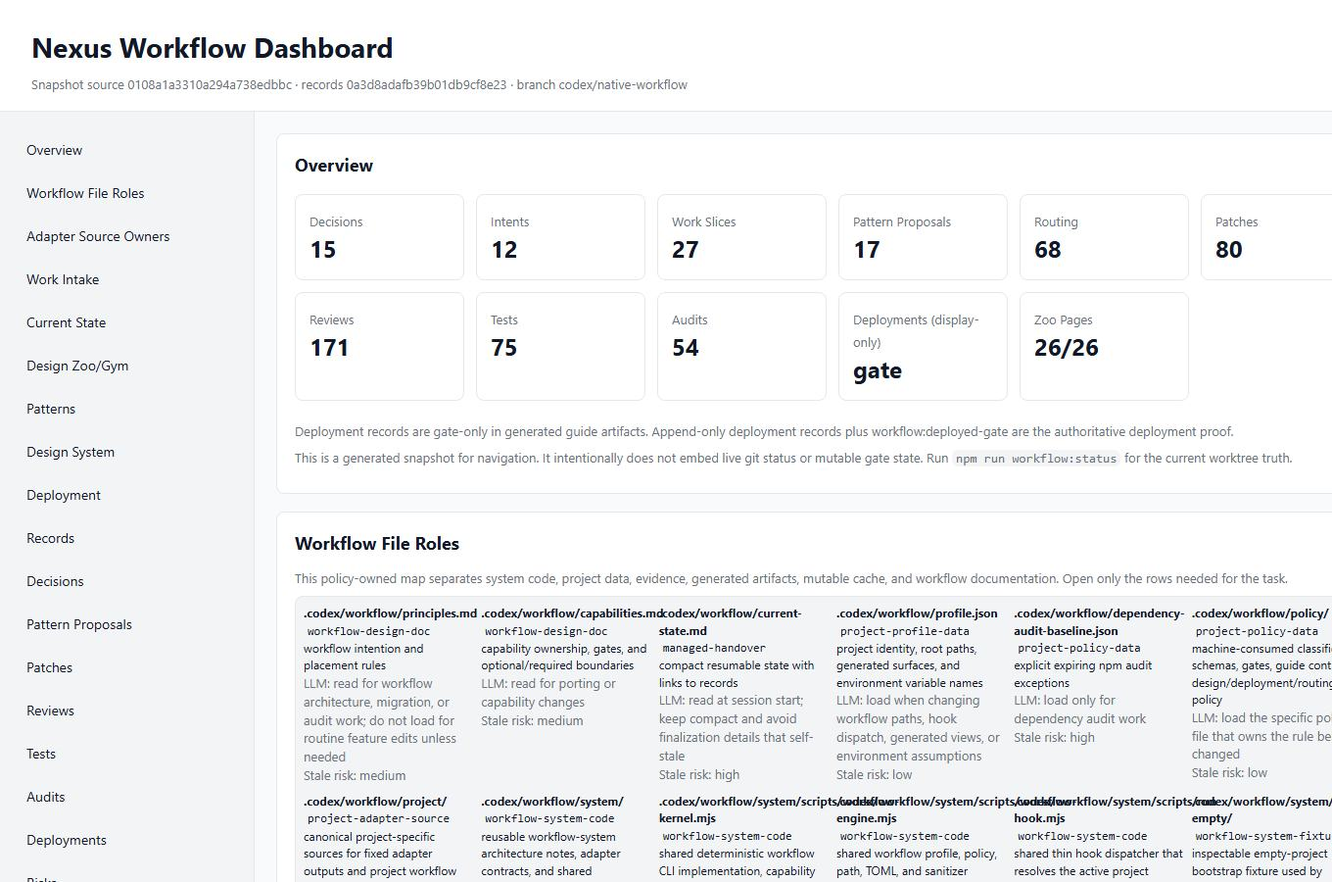
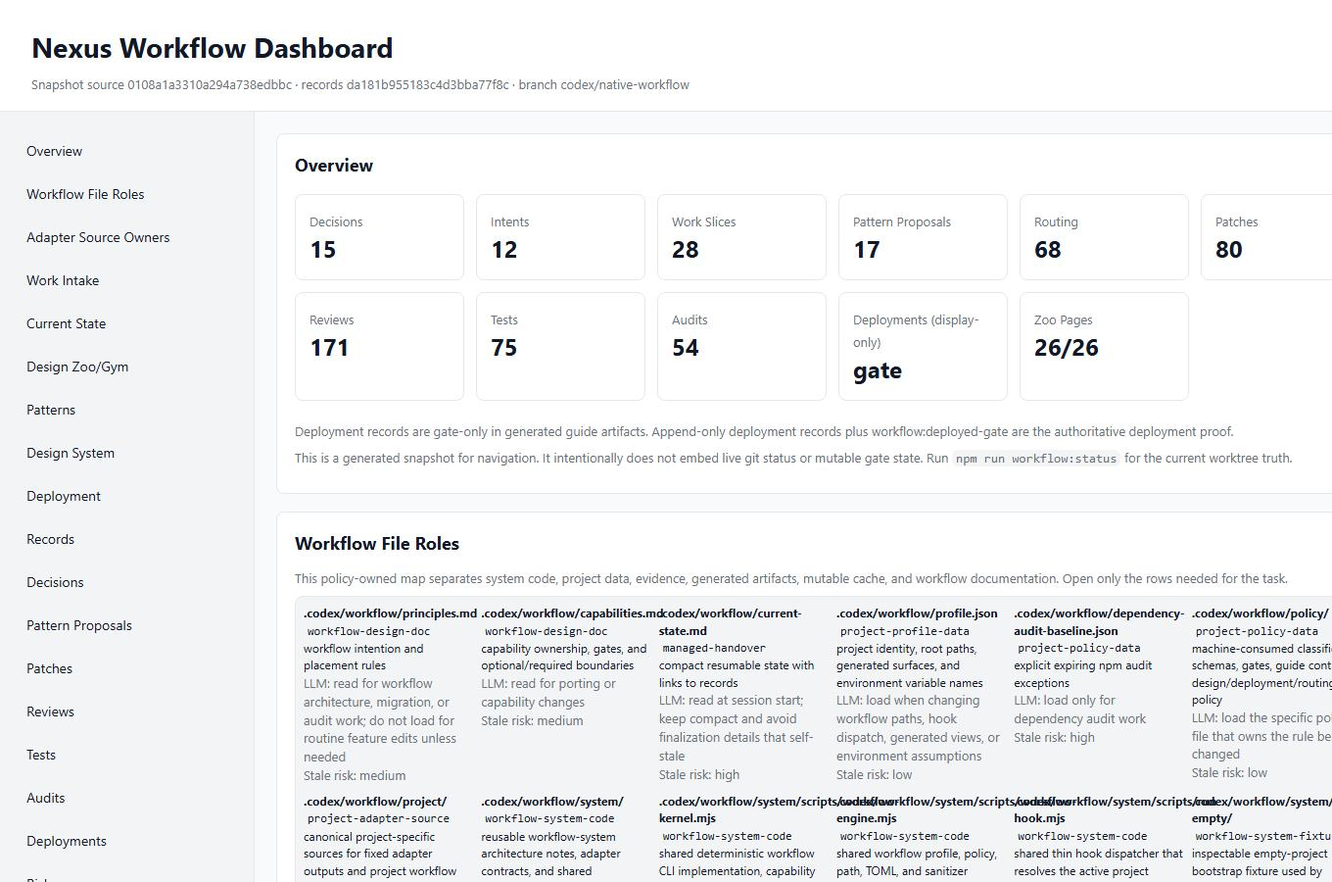
Record workflow deployment evidence

diff --git a/.codex/dashboard/public.html b/.codex/dashboard/public.html
@@ -5,8 +5,8 @@
   <meta name="viewport" content="width=device-width, initial-scale=1" />
   <meta name="nexus-guide-version" content="nexus-public-workflow-guide/v2" />
   <meta name="nexus-guide-source-hash" content="0108a1a3310a294a738edbbc" />
-  <meta name="nexus-guide-record-feed-hash" content="0a3d8adafb39b01db9cf8e23" />
-  <meta name="nexus-guide-content-hash" content="8bd4902363f31f8402e9ce25" />
+  <meta name="nexus-guide-record-feed-hash" content="da181b955183c4d3bba77f8c" />
+  <meta name="nexus-guide-content-hash" content="3ceab771b69f94915158b7f4" />
   <meta name="nexus-token-source" content="packages/web/src/platform/theme/tokens.css" />
   <title>Nexus Workflow Guide</title>
   <style>
@@ -72,7 +72,7 @@
 <body>
   <header>
     <h1>Nexus Workflow Guide</h1>
-    <div class="meta">Snapshot source 0108a1a3310a294a738edbbc · records 0a3d8adafb39b01db9cf8e23 · branch codex/native-workflow · run workflow gates for live state before deploy</div>
+    <div class="meta">Snapshot source 0108a1a3310a294a738edbbc · records da181b955183c4d3bba77f8c · branch codex/native-workflow · run workflow gates for live state before deploy</div>
   </header>
   <main>
     <section>
@@ -303,7 +303,7 @@
     <div class="graph">
       <h3>Intent Trace Graph</h3>
       <div class="nodes">
-        <div class="node" data-graph-node="Slice WORK-SLICE-20260511T101600Z-work-slice-active-research-design-implement-and-"><strong>Slice WORK-SLICE-20260511T101600Z-work-slice-active-research-design-implement-and-</strong><span>verified · Research, design, implement, and test a stronger system/project extraction for the Codex workflow</span></div>
+        <div class="node" data-graph-node="Slice WORK-SLICE-20260511T101600Z-work-slice-active-research-design-implement-and-"><strong>Slice WORK-SLICE-20260511T101600Z-work-slice-active-research-design-implement-and-</strong><span>done · Research, design, implement, and test a stronger system/project extraction for the Codex workflow</span></div>
 <div class="node" data-graph-node="Intent INTENT-20260511T101550Z-intent-maintenance-fully-extract-workflow-system"><strong>Intent INTENT-20260511T101550Z-intent-maintenance-fully-extract-workflow-system</strong><span>captured · Fully extract workflow system/project separation before second-project onboarding</span></div>
 <div class="node" data-graph-node="Patch PATCH-20260511T112822Z-refactor-workflow-into-reusable-system-layer-plu"><strong>Patch PATCH-20260511T112822Z-refactor-workflow-into-reusable-system-layer-plu</strong><span>PATCH-20260511T112822Z-refactor-workflow-into-reusable-system-layer-plu</span></div>
 <div class="node" data-graph-node="Patch PATCH-20260511T124509Z-extract-reusable-workflow-system-layer-and-polic"><strong>Patch PATCH-20260511T124509Z-extract-reusable-workflow-system-layer-and-polic</strong><span>PATCH-20260511T124509Z-extract-reusable-workflow-system-layer-and-polic</span></div>
@@ -442,7 +442,7 @@
     </div>
 
       <ul class="timeline"><li data-work-intake-trace-row="WORK-SLICE-20260511T101600Z-work-slice-active-research-design-implement-and-">
-    <strong>WORK-SLICE-20260511T101600Z-work-slice-active-research-design-implement-and-</strong> <span class="meta">verified · codex-lead</span><br>
+    <strong>WORK-SLICE-20260511T101600Z-work-slice-active-research-design-implement-and-</strong> <span class="meta">done · codex-lead</span><br>
     Research, design, implement, and test a stronger system/project extraction for the Codex workflow
     <div class="trace-grid">
       <span><strong>Intents</strong><br><span data-work-intake-trace-intent="INTENT-20260511T101550Z-intent-maintenance-fully-extract-workflow-system">INTENT-20260511T101550Z-intent-maintenance-fully-extract-workflow-system: Fully extract workflow system/project separation before second-project onboarding</span></span>
@@ -788,7 +788,7 @@ node .codex/scripts/nexus-workflow.mjs record-audit --scope branch --verdict pas
       <div class="grid">
         <div class="card"><strong>15</strong><p>decisions</p></div>
 <div class="card"><strong>12</strong><p>intents</p></div>
-<div class="card"><strong>27</strong><p>work-slices</p></div>
+<div class="card"><strong>28</strong><p>work-slices</p></div>
 <div class="card"><strong>17</strong><p>pattern-proposals</p></div>
 <div class="card"><strong>68</strong><p>routing</p></div>
 <div class="card"><strong>80</strong><p>patches</p></div>
@@ -802,6 +802,31 @@ node .codex/scripts/nexus-workflow.mjs record-audit --scope branch --verdict pas
     <section>
       <h2>Workflow Event Timeline</h2>
       <p class="meta">All indexed workflow records are listed here by title. The repo-local dashboard contains detailed excerpts and internal paths.</p>
+
+        <h3>Work Intake</h3>
+        <ul class="timeline">
+          <li><strong>work-slices:</strong> Work slice done Research, design, implement, and test a stronger system/project extraction for the Codex workflow <span class="meta">2026-05-11T12:55:19.747Z</span></li>
+<li><strong>work-slices:</strong> Work slice verified Research, design, implement, and test a stronger system/project extraction for the Codex workflow <span class="meta">2026-05-11T12:48:42.005Z</span></li>
+<li><strong>work-slices:</strong> Work slice done Research, design, implement, and test a stronger system/project extraction for the Codex workflow <span class="meta">2026-05-11T12:43:59.861Z</span></li>
+<li><strong>work-slices:</strong> Work slice active Research, design, implement, and test a stronger system/project extraction for the Codex workflow <span class="meta">2026-05-11T10:16:00.508Z</span></li>
+<li><strong>intents:</strong> Intent maintenance Fully extract workflow system/project separation before second-project onboarding <span class="meta">2026-05-11T10:15:50.657Z</span></li>
+<li><strong>work-slices:</strong> Work slice done Implement behavior-preserving workflow structure refactor with centralized adapter management for mechanical fixed files and validated portability boundaries <span class="meta">2026-05-11T09:23:22.453Z</span></li>
+<li><strong>work-slices:</strong> Work slice active Implement behavior-preserving workflow structure refactor with centralized adapter management for mechanical fixed files and validated portability boundaries <span class="meta">2026-05-11T08:00:31.917Z</span></li>
+<li><strong>intents:</strong> Intent maintenance Refactor workflow structure with explicit adapter contract, install/check/uninstall, updated docs, and thorough tests for portability <span class="meta">2026-05-11T08:00:22.487Z</span></li>
+<li><strong>work-slices:</strong> Work slice done Finish Nexus design-system parity for current project scope <span class="meta">2026-05-11T01:24:55.220Z</span></li>
+<li><strong>work-slices:</strong> Work slice active Finish Nexus design-system parity for current project scope <span class="meta">2026-05-11T01:00:42.211Z</span></li>
+<li><strong>work-slices:</strong> Work slice active Finish Nexus design-system parity for current project scope <span class="meta">2026-05-10T23:08:53.745Z</span></li>
+<li><strong>work-slices:</strong> Work slice done Implement and validate portable Work Intake workflow subsystem <span class="meta">2026-05-10T15:47:13.205Z</span></li>
+<li><strong>work-slices:</strong> Work slice done Reproduce and remove the non-failing ThemeProvider React act warning <span class="meta">2026-05-10T15:47:13.199Z</span></li>
+<li><strong>work-slices:</strong> Work slice deferred Review and repair design-system integration/documentation after Codex workflow closeout <span class="meta">2026-05-10T14:55:22.178Z</span></li>
+<li><strong>intents:</strong> Intent feature After workflow closeout, review and repair the partially migrated design-system integration that came from the old Claude workflow, rebuild stale/wrong documentation through the new workflow, and fix implementation gaps with proper records and validation <span class="meta">2026-05-10T14:55:11.700Z</span></li>
+<li><strong>work-slices:</strong> Work slice active Reproduce and remove the non-failing ThemeProvider React act warning <span class="meta">2026-05-10T14:49:18.458Z</span></li>
+<li><strong>intents:</strong> Intent maintenance Clean remaining ThemeProvider React act warning using the Codex workflow <span class="meta">2026-05-10T14:49:10.957Z</span></li>
+<li><strong>work-slices:</strong> Work slice active Implement and validate portable Work Intake workflow subsystem <span class="meta">2026-05-10T13:49:14.702Z</span></li>
+<li><strong>intents:</strong> Intent feature Expand Codex workflow with portable solo-dev Work Intake and presentation system <span class="meta">2026-05-10T13:49:02.030Z</span></li>
+<li><strong>decisions:</strong> Research solo-dev user-intent traceability workflow <span class="meta">2026-05-10T13:14:35.699Z</span></li>
+        </ul>
+
 
         <h3>Validation</h3>
         <ul class="timeline">
@@ -1223,30 +1248,6 @@ node .codex/scripts/nexus-workflow.mjs record-audit --scope branch --verdict pas
 <li><strong>patches:</strong> Codex-native workflow migration, Claude workflow archive, and design-system Toast continuation <span class="meta">2026-05-08T17:41:21.965Z</span></li>
 <li><strong>patches:</strong> Design-system toast semantic parity <span class="meta">2026-05-08T17:07:13.546Z</span></li>
 <li><strong>decisions:</strong> Workflow mechanism split <span class="meta">2026-05-08T16:38:32.282Z</span></li>
-        </ul>
-
-
-        <h3>Work Intake</h3>
-        <ul class="timeline">
-          <li><strong>work-slices:</strong> Work slice verified Research, design, implement, and test a stronger system/project extraction for the Codex workflow <span class="meta">2026-05-11T12:48:42.005Z</span></li>
-<li><strong>work-slices:</strong> Work slice done Research, design, implement, and test a stronger system/project extraction for the Codex workflow <span class="meta">2026-05-11T12:43:59.861Z</span></li>
-<li><strong>work-slices:</strong> Work slice active Research, design, implement, and test a stronger system/project extraction for the Codex workflow <span class="meta">2026-05-11T10:16:00.508Z</span></li>
-<li><strong>intents:</strong> Intent maintenance Fully extract workflow system/project separation before second-project onboarding <span class="meta">2026-05-11T10:15:50.657Z</span></li>
-<li><strong>work-slices:</strong> Work slice done Implement behavior-preserving workflow structure refactor with centralized adapter management for mechanical fixed files and validated portability boundaries <span class="meta">2026-05-11T09:23:22.453Z</span></li>
-<li><strong>work-slices:</strong> Work slice active Implement behavior-preserving workflow structure refactor with centralized adapter management for mechanical fixed files and validated portability boundaries <span class="meta">2026-05-11T08:00:31.917Z</span></li>
-<li><strong>intents:</strong> Intent maintenance Refactor workflow structure with explicit adapter contract, install/check/uninstall, updated docs, and thorough tests for portability <span class="meta">2026-05-11T08:00:22.487Z</span></li>
-<li><strong>work-slices:</strong> Work slice done Finish Nexus design-system parity for current project scope <span class="meta">2026-05-11T01:24:55.220Z</span></li>
-<li><strong>work-slices:</strong> Work slice active Finish Nexus design-system parity for current project scope <span class="meta">2026-05-11T01:00:42.211Z</span></li>
-<li><strong>work-slices:</strong> Work slice active Finish Nexus design-system parity for current project scope <span class="meta">2026-05-10T23:08:53.745Z</span></li>
-<li><strong>work-slices:</strong> Work slice done Implement and validate portable Work Intake workflow subsystem <span class="meta">2026-05-10T15:47:13.205Z</span></li>
-<li><strong>work-slices:</strong> Work slice done Reproduce and remove the non-failing ThemeProvider React act warning <span class="meta">2026-05-10T15:47:13.199Z</span></li>
-<li><strong>work-slices:</strong> Work slice deferred Review and repair design-system integration/documentation after Codex workflow closeout <span class="meta">2026-05-10T14:55:22.178Z</span></li>
-<li><strong>intents:</strong> Intent feature After workflow closeout, review and repair the partially migrated design-system integration that came from the old Claude workflow, rebuild stale/wrong documentation through the new workflow, and fix implementation gaps with proper records and validation <span class="meta">2026-05-10T14:55:11.700Z</span></li>
-<li><strong>work-slices:</strong> Work slice active Reproduce and remove the non-failing ThemeProvider React act warning <span class="meta">2026-05-10T14:49:18.458Z</span></li>
-<li><strong>intents:</strong> Intent maintenance Clean remaining ThemeProvider React act warning using the Codex workflow <span class="meta">2026-05-10T14:49:10.957Z</span></li>
-<li><strong>work-slices:</strong> Work slice active Implement and validate portable Work Intake workflow subsystem <span class="meta">2026-05-10T13:49:14.702Z</span></li>
-<li><strong>intents:</strong> Intent feature Expand Codex workflow with portable solo-dev Work Intake and presentation system <span class="meta">2026-05-10T13:49:02.030Z</span></li>
-<li><strong>decisions:</strong> Research solo-dev user-intent traceability workflow <span class="meta">2026-05-10T13:14:35.699Z</span></li>
         </ul>
 
 

diff --git a/.codex/dashboard/index.html b/.codex/dashboard/index.html
@@ -5,8 +5,8 @@
   <meta name="viewport" content="width=device-width, initial-scale=1" />
   <meta name="nexus-guide-version" content="nexus-public-workflow-guide/v2" />
   <meta name="nexus-guide-source-hash" content="0108a1a3310a294a738edbbc" />
-  <meta name="nexus-guide-record-feed-hash" content="0a3d8adafb39b01db9cf8e23" />
-  <meta name="nexus-guide-content-hash" content="9e73459e0af27f9ff07dfeda" />
+  <meta name="nexus-guide-record-feed-hash" content="da181b955183c4d3bba77f8c" />
+  <meta name="nexus-guide-content-hash" content="85e4653d84d9dc31199c4faa" />
   <meta name="nexus-token-source" content="packages/web/src/platform/theme/tokens.css" />
   <title>Nexus Workflow Dashboard</title>
   <style>
@@ -83,7 +83,7 @@
 <body>
   <header>
     <h1>Nexus Workflow Dashboard</h1>
-    <div class="meta">Snapshot source 0108a1a3310a294a738edbbc · records 0a3d8adafb39b01db9cf8e23 · branch codex/native-workflow</div>
+    <div class="meta">Snapshot source 0108a1a3310a294a738edbbc · records da181b955183c4d3bba77f8c · branch codex/native-workflow</div>
   </header>
   <div class="layout">
     <nav>
@@ -113,7 +113,7 @@
         <div class="grid">
           <div class="card"><span class="meta">Decisions</span><strong>15</strong></div>
 <div class="card"><span class="meta">Intents</span><strong>12</strong></div>
-<div class="card"><span class="meta">Work Slices</span><strong>27</strong></div>
+<div class="card"><span class="meta">Work Slices</span><strong>28</strong></div>
 <div class="card"><span class="meta">Pattern Proposals</span><strong>17</strong></div>
 <div class="card"><span class="meta">Routing</span><strong>68</strong></div>
 <div class="card"><span class="meta">Patches</span><strong>80</strong></div>
@@ -313,7 +313,7 @@
     <div class="graph">
       <h3>Intent Trace Graph</h3>
       <div class="nodes">
-        <div class="node" data-graph-node="Slice WORK-SLICE-20260511T101600Z-work-slice-active-research-design-implement-and-"><strong>Slice WORK-SLICE-20260511T101600Z-work-slice-active-research-design-implement-and-</strong><span>verified · Research, design, implement, and test a stronger system/project extraction for the Codex workflow</span></div>
+        <div class="node" data-graph-node="Slice WORK-SLICE-20260511T101600Z-work-slice-active-research-design-implement-and-"><strong>Slice WORK-SLICE-20260511T101600Z-work-slice-active-research-design-implement-and-</strong><span>done · Research, design, implement, and test a stronger system/project extraction for the Codex workflow</span></div>
 <div class="node" data-graph-node="Intent INTENT-20260511T101550Z-intent-maintenance-fully-extract-workflow-system"><strong>Intent INTENT-20260511T101550Z-intent-maintenance-fully-extract-workflow-system</strong><span>captured · Fully extract workflow system/project separation before second-project onboarding</span></div>
 <div class="node" data-graph-node="Patch PATCH-20260511T112822Z-refactor-workflow-into-reusable-system-layer-plu"><strong>Patch PATCH-20260511T112822Z-refactor-workflow-into-reusable-system-layer-plu</strong><span>PATCH-20260511T112822Z-refactor-workflow-into-reusable-system-layer-plu</span></div>
 <div class="node" data-graph-node="Patch PATCH-20260511T124509Z-extract-reusable-workflow-system-layer-and-polic"><strong>Patch PATCH-20260511T124509Z-extract-reusable-workflow-system-layer-and-polic</strong><span>PATCH-20260511T124509Z-extract-reusable-workflow-system-layer-and-polic</span></div>
@@ -452,7 +452,7 @@
     </div>
 
       <ul class="timeline"><li data-work-intake-trace-row="WORK-SLICE-20260511T101600Z-work-slice-active-research-design-implement-and-">
-    <strong>WORK-SLICE-20260511T101600Z-work-slice-active-research-design-implement-and-</strong> <span class="meta">verified · codex-lead</span><br>
+    <strong>WORK-SLICE-20260511T101600Z-work-slice-active-research-design-implement-and-</strong> <span class="meta">done · codex-lead</span><br>
     Research, design, implement, and test a stronger system/project extraction for the Codex workflow
     <div class="trace-grid">
       <span><strong>Intents</strong><br><span data-work-intake-trace-intent="INTENT-20260511T101550Z-intent-maintenance-fully-extract-workflow-system">INTENT-20260511T101550Z-intent-maintenance-fully-extract-workflow-system: Fully extract workflow system/project separation before second-project onboarding</span></span>
@@ -1668,6 +1668,24 @@ Acceptance signals: Intent/work-slice commands exist; records link to patches/re
 
     <section id="work-slices" class="panel">
       <h2>Work-slices</h2>
+
+        <article class="record">
+          <div class="record-top">
+            <strong>Work slice done Research, design, implement, and test a stronger system/project extraction for the Codex workflow</strong>
+            <span>2026-05-11T12:55:19.747Z</span>
+          </div>
+          <span class="pill">done</span>
+          <p class="path">.codex/workflow/records/work-slices/WORK-SLICE-20260511T125519Z-work-slice-done-research-design-implement-and-te.md</p>
+          <pre>Status: done
+Source type: user-intent
+Owner: codex-lead
+Intent IDs: INTENT-20260511T101550Z-intent-maintenance-fully-extract-workflow-system
+Updates work slice: WORK-SLICE-20260511T101600Z-work-slice-active-research-design-implement-and-
+Tags: workflow, architecture, portability
+Lead understanding: Research, design, implement, and test a stronger system/project extraction for the Codex workflow
+Acceptance criteria: Reusable workflow system is clearly separated from Nexus project data; project-specific capabilities are policy/data driven; onboarding can point mainly at the workflow path; Nexus release/deployed gates still pass or improve; fresh/empty project role-play validates activation path.</pre>
+        </article>
+
 
         <article class="record">
           <div class="record-top">

diff --git a/.codex/workflow/records/deployments/DEPLOYMENT-20260511T125508Z-deploy-reusable-workflow-system-extraction-and-p.md b/.codex/workflow/records/deployments/DEPLOYMENT-20260511T125508Z-deploy-reusable-workflow-system-extraction-and-p.md
@@ -1,0 +1,35 @@
+---
+schema: "nexus-deployment/v1"
+id: "DEPLOYMENT-20260511T125508Z-deploy-reusable-workflow-system-extraction-and-p"
+created: "2026-05-11T12:55:08.653Z"
+target: "https://cv.rehou.games/nexus/"
+verdict: "pass"
+operator: "codex-lead"
+workSliceIds: ["WORK-SLICE-20260511T101600Z-work-slice-active-research-design-implement-and-"]
+commandIds: ["wf-deploy-update-7f55a7c","wf-deploy-production-app-7f55a7c","wf-deploy-public-guide-7f55a7c"]
+commandEvidence: [{"id":"wf-deploy-update-7f55a7c","command":["ssh","-i","C:\\Users\\housh\\.ssh\\DIOkii","-o","StrictHostKeyChecking=accept-new","configured SSH endpoint","set -e; cd server repo && echo server-before && git rev-parse --abbrev-ref HEAD && git rev-parse --short HEAD && git status --short && git fetch origin codex/native-workflow && git checkout codex/native-workflow && git pull --ff-only origin codex/native-workflow && echo server-after && git rev-parse --abbrev-ref HEAD && git rev-parse --short HEAD && git status --short && mkdir -p /var/www/cv.rehou.games/nexus/workflow && rm -rf /var/www/cv.rehou.games/nexus/workflow/zoo && mkdir -p /var/www/cv.rehou.games/nexus/workflow/zoo && cp .codex/dashboard/public.html /var/www/cv.rehou.games/nexus/workflow/index.html && cp -a .codex/dashboard/zoo/. /var/www/cv.rehou.games/nexus/workflow/zoo/ && test -f /var/www/cv.rehou.games/nexus/workflow/index.html && test -f /var/www/cv.rehou.games/nexus/workflow/zoo/index.html && systemctl is-active nexus-api"],"cwd":".","startedAt":"2026-05-11T12:54:28.514Z","endedAt":"2026-05-11T12:54:30.876Z","durationMs":2361,"timeoutMs":600000,"exitCode":0,"timedOut":false,"warned":false},{"id":"wf-deploy-production-app-7f55a7c","command":["npm","run","workflow:production-app-check"],"cwd":".","startedAt":"2026-05-11T12:54:43.392Z","endedAt":"2026-05-11T12:54:44.197Z","durationMs":805,"timeoutMs":180000,"exitCode":0,"timedOut":false,"warned":false},{"id":"wf-deploy-public-guide-7f55a7c","command":["npm","run","workflow:public-guide-deployed-check"],"cwd":".","startedAt":"2026-05-11T12:54:44.762Z","endedAt":"2026-05-11T12:54:46.247Z","durationMs":1485,"timeoutMs":240000,"exitCode":0,"timedOut":false,"warned":false}]
+checks: ["server repo fast-forwarded to 7f55a7c; public workflow guide and Zoo/Gym guide copied to nginx path; nexus-api active; production app/API health passed; deployed guide and 58 Zoo/Gym images passed hash checks"]
+artifacts: []
+artifactEvidence: []
+guideArtifactHash: "3a15e91e1e023d0bf5bd4903"
[1 lines of base64/hex data omitted]
+branchBase: "origin/main"
+branchMergeBase: "1cbd123e2ab368cb2ca5cf161ce2a38c4822179d"
+branchHash: "f645db4faedc26e2"
+---
+
+# Deploy reusable workflow system extraction and public guide
+
+Target: https://cv.rehou.games/nexus/
+Verdict: pass
+Operator: codex-lead
+Branch evidence hash: f645db4faedc26e2
+Work slices: WORK-SLICE-20260511T101600Z-work-slice-active-research-design-implement-and-
+Command run ids: wf-deploy-update-7f55a7c, wf-deploy-production-app-7f55a7c, wf-deploy-public-guide-7f55a7c
+Checks: server repo fast-forwarded to 7f55a7c; public workflow guide and Zoo/Gym guide copied to nginx path; nexus-api active; production app/API health passed; deployed guide and 58 Zoo/Gym images passed hash checks
+Guide artifact hash: 3a15e91e1e023d0bf5bd4903
+Command evidence:
+- wf-deploy-update-7f55a7c: exit 0, timedOut=false, durationMs=2361, command=ssh -i C:\Users\housh\.ssh\DIOkii -o StrictHostKeyChecking=accept-new configured SSH endpoint set -e; cd server repo && echo server-before && git rev-parse --abbrev-ref HEAD && git rev-parse --short HEAD && git status --short && git fetch origin codex/native-workflow && git checkout codex/native-workflow && git pull --ff-only origin codex/native-workflow && echo server-after && git rev-parse --abbrev-ref HEAD && git rev-parse --short HEAD && git status --short && mkdir -p /var/www/cv.rehou.games/nexus/workflow && rm -rf /var/www/cv.rehou.games/nexus/workflow/zoo && mkdir -p /var/www/cv.rehou.games/nexus/workflow/zoo && cp .codex/dashboard/public.html /var/www/cv.rehou.games/nexus/workflow/index.html && cp -a .codex/dashboard/zoo/. /var/www/cv.rehou.games/nexus/workflow/zoo/ && test -f /var/www/cv.rehou.games/nexus/workflow/index.html && test -f /var/www/cv.rehou.games/nexus/workflow/zoo/index.html && systemctl is-active nexus-api
+- wf-deploy-production-app-7f55a7c: exit 0, timedOut=false, durationMs=805, command=npm run workflow:production-app-check
+- wf-deploy-public-guide-7f55a7c: exit 0, timedOut=false, durationMs=1485, command=npm run workflow:public-guide-deployed-check
+Notes: Server retained existing packages/web/tsconfig.tsbuildinfo modification; no app source rebuild was required for this workflow/guide-only deployment.

diff --git a/.codex/workflow/records/guide-browser/GUIDE-BROWSER-20260511T125718Z-guide-browser-pass.md b/.codex/workflow/records/guide-browser/GUIDE-BROWSER-20260511T125718Z-guide-browser-pass.md
@@ -1,0 +1,36 @@
+---
+schema: "nexus-guide-browser/v1"
+id: "GUIDE-BROWSER-20260511T125718Z-guide-browser-pass"
+created: "2026-05-11T12:57:18.805Z"
+verdict: "pass"
+reviewer: "codex-lead"
+guideArtifactHash: "3a15e91e1e023d0bf5bd4903"
+durationMs: 11721
+screenshots: [".codex/workflow/artifacts/screenshots/guide-browser-final/dashboard-artifact.jpg",".codex/workflow/artifacts/screenshots/guide-browser-final/workflow-guide-artifact.jpg",".codex/workflow/artifacts/screenshots/guide-browser-final/workflow-zoo-artifact-desktop.jpg",".codex/workflow/artifacts/screenshots/guide-browser-final/workflow-zoo-artifact-mobile.jpg"]
+summaryFile: ".codex/workflow/artifacts/screenshots/guide-browser-final/summary.json"
[1 lines of base64/hex data omitted]
+---
+
+# Guide browser pass
+
+Verdict: pass
+Reviewer: codex-lead
+Guide artifact hash: 3a15e91e1e023d0bf5bd4903
+Duration: 11721ms
+
+Summary file: .codex/workflow/artifacts/screenshots/guide-browser-final/summary.json
+
+Screenshots:
+- .codex/workflow/artifacts/screenshots/guide-browser-final/dashboard-artifact.jpg
+- .codex/workflow/artifacts/screenshots/guide-browser-final/workflow-guide-artifact.jpg
+- .codex/workflow/artifacts/screenshots/guide-browser-final/workflow-zoo-artifact-desktop.jpg
+- .codex/workflow/artifacts/screenshots/guide-browser-final/workflow-zoo-artifact-mobile.jpg
+
+Evidence artifacts:
+- .codex/workflow/artifacts/screenshots/guide-browser-final/dashboard-artifact.jpg: f2af0283b7cb4a5d668f7d5427abf497b96907838c9bfab4aa4283afccb08ae4 (156787 bytes)
+- .codex/workflow/artifacts/screenshots/guide-browser-final/workflow-guide-artifact.jpg: cdb3d7b40e9e65f0c00d1f84d522bf92324eacd3c9268e127a099c765768f6a8 (104560 bytes)
+- .codex/workflow/artifacts/screenshots/guide-browser-final/workflow-zoo-artifact-desktop.jpg: 21d0692b74c53c5dff1c522379b53708814589ebdef1454bf2e257348422e6d6 (98886 bytes)
+- .codex/workflow/artifacts/screenshots/guide-browser-final/workflow-zoo-artifact-mobile.jpg: e828dc7aa7d4d2fd4f44077e619a68bd727ac5b767bd9093e720fac2a7f2292a (58836 bytes)
+- .codex/workflow/artifacts/screenshots/guide-browser-final/summary.json: b10941469bc545a7d30490d78354b5cff4403cab6cbb7fcc9814606eabb36c30 (12968 bytes)
+
+Notes: Final generated guide artifact browser validation. Deterministic proof is in summary.json; JPEG files are bounded viewport previews for human inspection, not pixel-diff baselines.

diff --git a/.codex/workflow/records/work-slices/WORK-SLICE-20260511T125519Z-work-slice-done-research-design-implement-and-te.md b/.codex/workflow/records/work-slices/WORK-SLICE-20260511T125519Z-work-slice-done-research-design-implement-and-te.md
@@ -1,0 +1,38 @@
+---
+schema: "nexus-work-slice/v1"
+id: "WORK-SLICE-20260511T125519Z-work-slice-done-research-design-implement-and-te"
+created: "2026-05-11T12:55:19.747Z"
+status: "done"
+sourceType: "user-intent"
+owner: "codex-lead"
+intentIds: ["INTENT-20260511T101550Z-intent-maintenance-fully-extract-workflow-system"]
+summary: "Research, design, implement, and test a stronger system/project extraction for the Codex workflow"
+publicSummary: "Research, design, implement, and test a stronger system/project extraction for the Codex workflow"
+area: ""
+priority: ""
+acceptance: "Reusable workflow system is clearly separated from Nexus project data; project-specific capabilities are policy/data driven; onboarding can point mainly at the workflow path; Nexus release/deployed gates still pass or improve; fresh/empty project role-play validates activation path."
+verification: "architecture audit, extraction tests, adapter/policy/inventory/self-test/release/deployed gates, fresh-project role-play"
+files: []
+externalRefs: []
+tags: ["workflow","architecture","portability"]
+updatesWorkSliceId: "WORK-SLICE-20260511T101600Z-work-slice-active-research-design-implement-and-"
+supersedesWorkSliceIds: []
+blockedByWorkSliceIds: []
+deploymentRequired: true
+openedAt: "2026-05-11T12:55:19.746Z"
+---
+
+# Work slice done Research, design, implement, and test a stronger system/project extraction for the Codex workflow
+
+Status: done
+Source type: user-intent
+Owner: codex-lead
+Intent IDs: INTENT-20260511T101550Z-intent-maintenance-fully-extract-workflow-system
+Updates work slice: WORK-SLICE-20260511T101600Z-work-slice-active-research-design-implement-and-
+Tags: workflow, architecture, portability
+Lead understanding: Research, design, implement, and test a stronger system/project extraction for the Codex workflow
+Acceptance criteria: Reusable workflow system is clearly separated from Nexus project data; project-specific capabilities are policy/data driven; onboarding can point mainly at the workflow path; Nexus release/deployed gates still pass or improve; fresh/empty project role-play validates activation path.
+Non-goals: n/a
+Verification plan: architecture audit, extraction tests, adapter/policy/inventory/self-test/release/deployed gates, fresh-project role-play
+Files / scope hints: n/a
+Notes: Reusable workflow system extraction is locally verified, deployed to server commit 7f55a7c, and validated by production app/API plus public guide/Zoo deployed checks.
